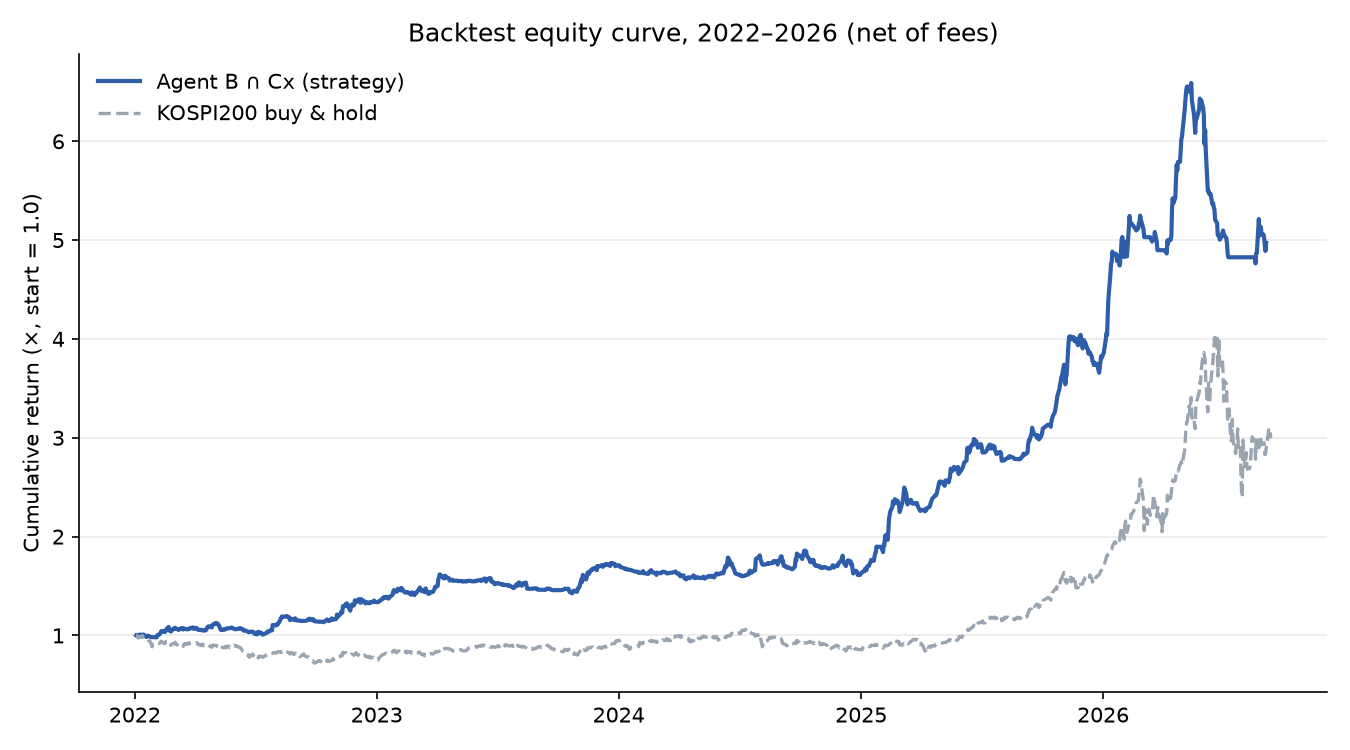
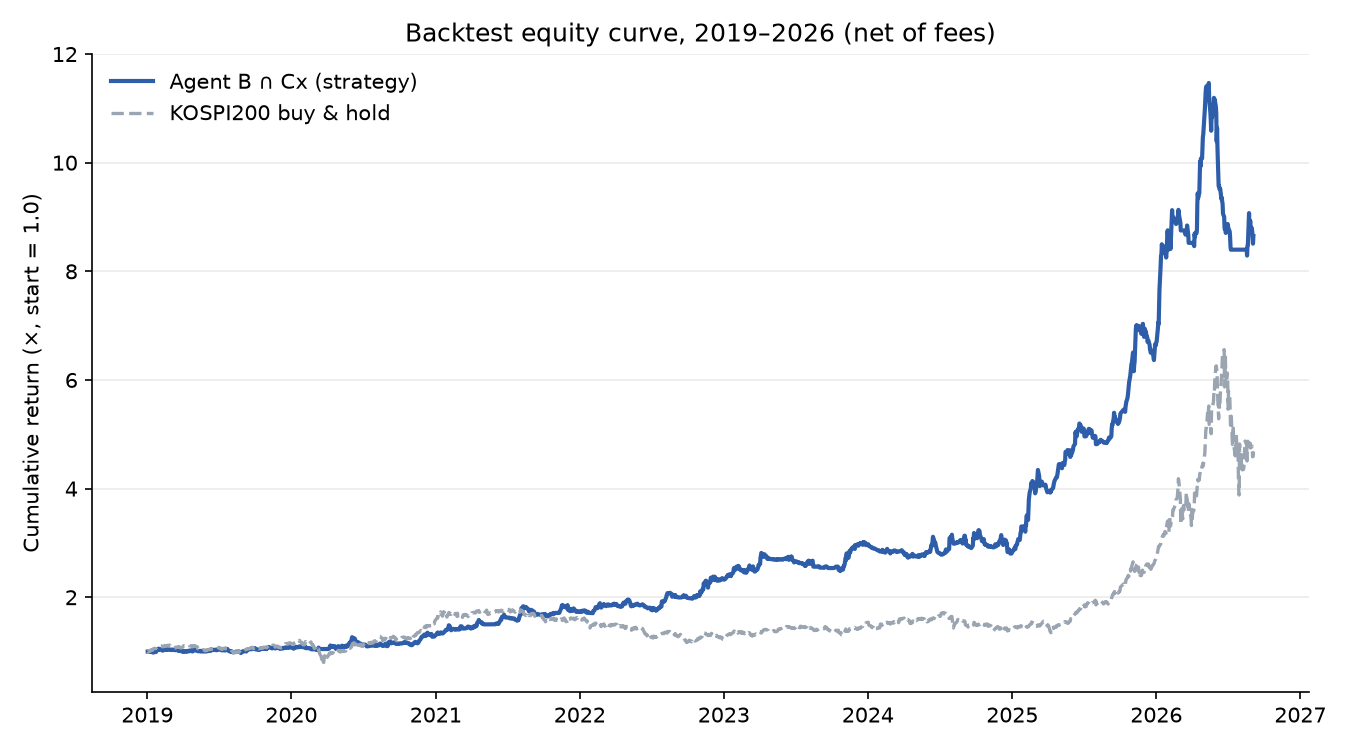
Add methodology writeup, diagnostics, tests, and pipeline diagram
Documents the point-in-time universe, order-aware labeling, transaction
cost modeling, and walk-forward validation used in the underlying
research project, with honest backtest results, additional diagnostics
(cash exposure, Sharpe, equal-weight universe benchmark, cost
sensitivity), a bugs-found log with real before/after numbers, a
Mermaid architecture diagram, and pytest coverage for the claims made
in src/. Numbers were cross-checked and corrected across several review
passes (year-boundary compounding, benchmark end-date alignment,
universe-average anchoring). Production trading parameters remain
excluded throughout.

diff --git a/tests/test_methodology.py b/tests/test_methodology.py
@@ -1,0 +1,100 @@
+"""
+Actual assertions for the claims made in README.md and BUGS.md — not just
+runnable print statements. Run with: pytest tests/
+"""
+from __future__ import annotations
+import sys
+from pathlib import Path
+
+import numpy as np
+import pandas as pd
+
+sys.path.insert(0, str(Path(__file__).resolve().parent.parent / "src"))
+
+from point_in_time_universe import PointInTimeUniverse, Snapshot
+from order_aware_labeling import label_order_blind, label_order_aware
+from transaction_costs import ROUND_TRIP_COST, buy_cost, sell_proceeds, net_return
+from walkforward_validation import annual_folds
+
+
+def test_pit_universe_uses_old_membership_before_effective_date():
+    universe = PointInTimeUniverse([
+        Snapshot(pd.Timestamp("2023-12-14"), frozenset({"A", "B", "C"})),
+        Snapshot(pd.Timestamp("2024-06-14"), frozenset({"A", "C", "D"})),
+    ])
+    # One day before the new snapshot takes effect: still the OLD membership.
+    assert universe.is_member("2024-06-13", "B") is True
+    assert universe.is_member("2024-06-13", "D") is False
+
+
+def test_pit_universe_switches_exactly_on_effective_date():
+    universe = PointInTimeUniverse([
+        Snapshot(pd.Timestamp("2023-12-14"), frozenset({"A", "B", "C"})),
+        Snapshot(pd.Timestamp("2024-06-14"), frozenset({"A", "C", "D"})),
+    ])
+    assert universe.is_member("2024-06-14", "B") is False
+    assert universe.is_member("2024-06-14", "D") is True
+
+
+def test_pit_universe_before_any_snapshot_is_empty_not_leaked_from_future():
+    universe = PointInTimeUniverse([Snapshot(pd.Timestamp("2024-06-14"), frozenset({"A"}))])
+    assert universe.members_at("2020-01-01") == frozenset()
+
+
+def test_order_blind_label_ignores_stop_loss_hit_first():
+    # Stop hit on the first bar; target only touched on a later bar. The
+    # order-blind label is wrong here by construction — that's the bug.
+    highs = np.array([100.5, 101.0, 101.5, 103.0])
+    lows = np.array([97.0, 100.0, 100.5, 101.0])
+    assert label_order_blind(highs, lows, take_profit=103.0, stop_loss=97.5) == 1
+
+
+def test_order_aware_label_resolves_the_same_case_correctly():
+    highs = np.array([100.5, 101.0, 101.5, 103.0])
+    lows = np.array([97.0, 100.0, 100.5, 101.0])
+    assert label_order_aware(highs, lows, take_profit=103.0, stop_loss=97.5) == 0
+
+
+def test_order_aware_same_bar_double_touch_resolves_to_stop_loss():
+    # A single bar that touches both levels is scored conservatively as a
+    # stop-loss, since we don't know the true intrabar order.
+    highs = np.array([105.0])
+    lows = np.array([95.0])
+    assert label_order_aware(highs, lows, take_profit=103.0, stop_loss=97.0) == 0
+
+
+def test_round_trip_cost_matches_documented_value():
+    assert abs(ROUND_TRIP_COST - 0.0041) < 1e-9
+
+
+def test_net_return_is_strictly_worse_than_gross_return():
+    entry, exit_ = 10_000, 10_050  # +0.5% gross
+    gross = exit_ / entry - 1
+    net = net_return(entry, exit_)
+    assert net < gross
+    assert abs(net - 0.00088) < 1e-4  # ~0.088% after ~0.41% round-trip cost
+
+
+def test_buy_cost_and_sell_proceeds_are_on_opposite_sides_of_price():
+    price = 10_000
+    assert buy_cost(price) > price
+    assert sell_proceeds(price) < price
+
+
+def test_walkforward_folds_never_train_on_the_test_year_or_later():
+    folds = annual_folds(data_start="2019-01-01", test_years=[2022, 2023, 2024], embargo_days=5)
+    for fold in folds:
+        assert pd.Timestamp(fold.train_end) < pd.Timestamp(fold.test_start)
+        assert pd.Timestamp(fold.test_start).year == fold.test_year
+
+
+def test_walkforward_folds_train_window_grows_each_year():
+    folds = annual_folds(data_start="2019-01-01", test_years=[2022, 2023, 2024])
+    ends = [pd.Timestamp(f.train_end) for f in folds]
+    assert ends[0] < ends[1] < ends[2]
+
+
+def test_walkforward_embargo_shrinks_the_training_window():
+    no_embargo = annual_folds(data_start="2019-01-01", test_years=[2022], embargo_days=0)[0]
+    with_embargo = annual_folds(data_start="2019-01-01", test_years=[2022], embargo_days=5)[0]
+    assert pd.Timestamp(with_embargo.train_end) < pd.Timestamp(no_embargo.train_end)

diff --git a/src/order_aware_labeling.py b/src/order_aware_labeling.py
@@ -15,9 +15,9 @@ easier to satisfy than "TP before SL." The fix is to walk forward through
 the path bar-by-bar and take whichever level is crossed first, with a
 conservative tie-break (stop-loss wins on a same-bar double-touch).
 
-We use this in the project's 5-minute-bar experiments below (see the
-project write-up) to explain a case where fixing this bug changed which
-label design looked "best."
+Fixing this in the underlying project changed which label design looked
+"best" under offline AUC — a design that looked strongest order-blind
+stopped looking strongest once evaluated order-aware.
 """
 from __future__ import annotations
 
@@ -26,7 +26,11 @@ import numpy as np
 
 def label_order_blind(highs: np.ndarray, lows: np.ndarray, take_profit: float, stop_loss: float) -> int:
     """1 if price ever reaches take_profit within the window, regardless of
-    whether stop_loss was crossed first. This is the biased version."""
+    whether stop_loss was crossed first. This is the biased version — `lows`
+    and `stop_loss` are accepted (and intentionally unused) only to keep the
+    same call signature as `label_order_aware`, so the two are a drop-in
+    swap for each other at call sites."""
+    del lows, stop_loss
     return int((highs >= take_profit).any())
 
 

diff --git a/README.md b/README.md
@@ -1,51 +1,106 @@
-# NoLookahead
+# Korean Large-Cap Equities Quant Research
 
-**Korean equity quant research — fundamental + ML signal blending, walk-forward validated, point-in-time correct.**
+**Walk-forward backtesting with a point-in-time universe and a risk-gated signal pipeline.**
 
-This repo documents a long-running solo research project building a systematic long-only strategy for KOSPI200 stocks. It is **not** a copy of the live trading system — the exact gating thresholds, position sizing, and risk-management parameters used in production are intentionally left out. What's here is the methodology, the validation approach, the honest results, and — probably the most useful part for anyone reading this — the mistakes that were found and fixed along the way.
+This repo is a write-up of the methodology and validation discipline behind a long-running solo research project on large-cap Korean equities — not a pitch for the returns below. (Not literally "KOSPI200 stocks," either — see [Approach](#approach).) It is **not** a copy of the live trading system — the exact gating thresholds, position sizing, and risk-management parameters used in production are intentionally left out. What's actually here, and actually checkable: the point-in-time and cost-accounting discipline in [`src/`](src/), tests that pin down the claims in [`tests/`](tests/), and the mistakes that were found and fixed along the way, in [BUGS.md](BUGS.md) with real before/after numbers. The performance table below is not checkable from this repo — see the note under it before reading too much into it.
 
 > ⚠ **Not investment advice.** This is a personal research project shared for educational purposes. Past backtest performance does not predict future results, and nothing here should be read as a recommendation to buy or sell any security.
 
-## TL;DR
+## Results (reference only — see caveat)
 
 | | Strategy | KOSPI200 buy & hold |
 |---|---|---|
-| CAGR (2022–2026 YTD) | **40.99%** | 26.36% |
+| CAGR (2019–2026 YTD) | **32.48%** | 22.30% |
 | Max drawdown | **-27.7%** | -40.8% |
-| CAGR / \|MDD\| | **1.48** | 0.65 |
-| Cumulative | **4.97×** | 2.99× |
+| CAGR / \|MDD\| | **1.17** | 0.55 |
+| Cumulative | **8.65×** | 4.68× |
 
-Net of realistic transaction costs (commission + Korean securities transaction tax + slippage, ~0.41% round-trip). Backtest, not live-verified — see [Limitations](#limitations).
+> **These numbers can't be independently verified from this repo.** The code here ([`src/`](src/)) illustrates the techniques used, not the full pipeline — the actual backtest depends on licensed/collected Korean market data that isn't (and can't be) included. Read this table as "what came out of a walk-forward, cost-aware backtest for this approach," not as something you can reproduce or take on faith. The methodology sections below are the part you actually *can* evaluate.
+
+Net of realistic transaction costs (commission + Korean securities transaction tax + slippage, ~0.41% round-trip). "KOSPI200 buy & hold" is the KODEX 200 ETF (069500) price series — a price return, not a total return with dividends reinvested, which flatters the strategy comparison somewhat. See also [Limitations](#limitations) — in particular, the most recent fold (2026) underperforms buy-and-hold by a wide margin, and the risk-management parameters have a meta-look-ahead issue.
 
 ![Equity curve](results/equity_curve.png)
+
+### Walk-forward results by year
+
+Each year below is an out-of-sample fold: for the model that year is tested on, all training data is strictly earlier (annual walk-forward, no k-fold shuffling — see [`src/walkforward_validation.py`](src/walkforward_validation.py)). Shown per-year rather than only as one aggregate number, since an eight-year average can hide a lot of variance:
+
+| Year | Strategy | KOSPI200 | Excess |
+|---|---|---|---|
+| 2019 | +7.8% | +15.8% | -8.0pp |
+| 2020 | +20.5% | +35.6% | -15.1pp |
+| 2021 | +33.2% | +3.0% | +30.2pp |
+| 2022 | +34.8% | -24.2% | +59.0pp |
+| 2023 | +27.5% | +24.9% | +2.6pp |
+| 2024 | -5.7% | -9.4% | +3.7pp |
+| 2025 | +136.3% | +94.2% | +42.1pp |
+| 2026 (YTD, through Sep 4) | +30.5% | +73.8% | -43.3pp |
+
+(Compounding these year-by-year figures reproduces the 8.65× total above exactly — each year's return is computed year-end to year-end, not first-trading-day to last-trading-day, so the boundary days aren't silently dropped.)
+
+Three years (2019, 2020, 2026) underperform buy-and-hold outright, and 2026 underperforms by a wide margin — a strong KOSPI rally this strategy's regime/sector-cap risk controls didn't fully capture. Included deliberately rather than cut off at a more flattering point.
+
+### Additional diagnostics
+
+The headline CAGR comparison above isn't apples-to-apples on its own — buy-and-hold is always 100% invested, and a lower-drawdown strategy that's just sitting in cash more often isn't actually more skillful. These numbers are here to close that gap:
+
+| | Value |
+|---|---|
+| Average cash allocation | 50.4% (i.e. ~49.6% average market exposure) |
+| Annualized Sharpe ratio | 1.59 |
+| Total trades (2019–2026) | 373 |
+| Win rate | 44.0% |
+| Average hold time | 12.4 trading days |
+| Equal-weight universe benchmark (avg. return of all PIT KOSPI200 members, 2019–2026) | 2.04× cumulative |
+| Cost sensitivity: CAGR at 2× assumed slippage (0.41% → 0.61% round-trip) | 29.90% (vs. 32.48% base) |
+
+A few of these are worth reading correctly rather than at face value:
+
+- **~50% average exposure while still beating a fully-invested benchmark is the more interesting number than the CAGR itself** — the strategy achieved its return profile with roughly half its capital sitting in cash on an average day, not by being in the market more aggressively than buy-and-hold.
+- **44% win rate is not a red flag on its own.** The exit rules are asymmetric by design — the profit target is set further from entry than the stop-loss — so more small losses than wins is expected. What matters is the per-trade expectancy (implied by the CAGR above), not the win rate in isolation.
+- **The equal-weight universe comparison is the more honest benchmark than the cap-weighted KOSPI200 ETF.** A cap-weighted index can be dominated by a handful of mega-caps; an approach that only beats the cap-weighted index but not the average stock in its own universe would be a much weaker result. Here the gap is *larger* against the equal-weight benchmark (8.65× vs. 2.04×) than against the cap-weighted one (8.65× vs. 4.68×).
+- **Doubling the slippage assumption costs about 2.6 percentage points of CAGR, not the whole edge.** That's a reasonable sanity check that the result isn't a knife-edge function of the exact cost assumptions in [`src/transaction_costs.py`](src/transaction_costs.py) — though it's a stress test of one assumption, not proof of robustness to all of them.
+- Strategy capacity (how much capital this scales to before market impact erodes the edge) isn't estimated here — it would need order-book/liquidity data this project doesn't have, so no number is given rather than a guessed one.
 
 ## Approach
 
 Two independent signal sources, combined by intersection rather than by blending scores into one number:
 
-- **Agent B** — a fundamentals/market-cap-based factor model that ranks the investable universe and produces a daily candidate pool (with a per-sector cap, so the pool can't collapse into one hot sector).
-- **Agent Cx** — a technical/price-action model (gradient-boosted + a CNN-LSTM variant, blended) that scores the same universe on near-term momentum characteristics, evaluated against the **actual, point-in-time** KOSPI200 membership.
-- A stock only becomes a candidate when it clears **both** filters on the same day. Neither filter alone performs as well — this was tested directly, not assumed.
+```mermaid
+flowchart TD
+    subgraph AgentB["Agent B — fundamentals"]
+        B1["Market-cap-approximated<br/>large-cap universe"] --> B2["Factor model ranking"]
+        B2 --> B3["Daily candidate pool<br/>(per-sector cap applied)"]
+    end
+
+    subgraph AgentCx["Agent Cx — price action / ML"]
+        C1["Official KOSPI200<br/>point-in-time membership"] --> C2["Gradient-boosted model"]
+        C1 --> C3["CNN-LSTM model"]
+        C2 --> C4["Blended cross-sectional<br/>percentile score"]
+        C3 --> C4
+    end
+
+    B3 --> GATE{"Passes both<br/>on the same day?"}
+    C4 --> GATE
+    GATE -->|no| SKIP["Not traded"]
+    GATE -->|yes| ENTRY["Entry rules<br/>gap filter · volatility-based stop · profit target"]
+    ENTRY --> RISK["Risk gates<br/>per-sector cap · drawdown regime filter · re-entry cooldown"]
+    RISK --> POS["Position<br/>(timer / stop / target exit)"]
+```
+
+- **Agent B** — a fundamentals/market-cap-based factor model that ranks a self-computed large-cap universe (a market-cap approximation, not the official index) and produces a daily candidate pool (with a per-sector cap, so the pool can't collapse into one hot sector).
+- **Agent Cx** — a technical/price-action model (gradient-boosted + a CNN-LSTM variant, blended) that scores stocks within the **actual, point-in-time official KOSPI200 membership**.
+- A stock only becomes a candidate when it clears **both** filters on the same day — i.e. when *both* a market-cap-based approximation and the official index agree it belongs in the large-cap set. This is a deliberate design choice, not an oversight: the two universes disagree on roughly 15–20% of names at any given time, and requiring agreement between two independently-derived definitions turned out to filter better than either one alone (tested directly, not assumed). The tradable universe is therefore this intersection, not "KOSPI200" in the strict sense.
 
 Entries, stop-losses (volatility-based), and profit targets follow a fixed rule set; position risk is managed with per-sector caps and a drawdown-triggered regime filter that blocks new entries during KOSPI-wide selloffs. The exact numeric thresholds for all of this are withheld — the *structure* is what's documented here.
 
 ## Methodology / what makes this credible (or not)
 
-- **Point-in-time universe.** KOSPI200 rebalances semi-annually with a real effective date (the trading day after the index provider's announcement, not the 1st of the month). A backtest using "current members" applied retroactively is a look-ahead bug — see [`src/point_in_time_universe.py`](src/point_in_time_universe.py).
+- **Point-in-time universe.** KOSPI200 rebalances semi-annually with a real effective date (the trading day after the index provider's announcement, not the 1st of the month) — this matters for the Agent Cx side of the filter above. A backtest using "current members" applied retroactively is a look-ahead bug — see [`src/point_in_time_universe.py`](src/point_in_time_universe.py).
 - **Order-aware labeling.** Any label built from "did price reach the target within N bars," checked without regard to whether the stop-loss was hit *first*, silently inflates label quality. See [`src/order_aware_labeling.py`](src/order_aware_labeling.py) for the concrete before/after.
-- **Transaction costs modeled from day one on every new idea.** Commission on both legs, tax on the sell leg, slippage — see [`src/transaction_costs.py`](src/transaction_costs.py). Several promising-looking ideas below failed only after this was added.
+- **Transaction costs modeled from day one on every new idea.** Commission on both legs, tax on the sell leg, slippage — see [`src/transaction_costs.py`](src/transaction_costs.py). More than one promising-looking signal turned out to be smaller than the round-trip cost once this was added honestly.
 - **Annual walk-forward folds with an embargo**, not k-fold cross-validation — see [`src/walkforward_validation.py`](src/walkforward_validation.py). Each fold trains only on strictly-past data.
 - **Relative, not absolute, entry thresholds.** Every time a fixed score cutoff was replaced with a same-day cross-sectional percentile cutoff, results improved and a look-ahead disappeared at the same time (the fixed cutoff had implicitly been tuned by looking at the whole evaluation period's score distribution).
-
-## What didn't work
-
-Documented here because negative results are still results, and because "we tried X and it failed after fixing the accounting" is a more useful signal than a cherry-picked win:
-
-- **Intraday (same-day) trading on 5-minute bars**, across four different label designs (order-aware ATR-relative, fixed-percentage, 3× ATR, and a 5-minute-vs-10-minute bar-size comparison): every design's average per-trade edge came out to roughly 1/10–1/15 of the realistic 0.41% round-trip cost. Net of fees, every configuration was catastrophically unprofitable, regardless of how the entry threshold was tuned.
-- **Multi-day holds (3–5 trading days) with 5-minute-bar features**, ranked cross-sectionally with a pairwise ranking loss: this did produce a real, walk-forward-validated signal (Spearman IC ≈ 0.03–0.04 across 5 test years, positive in all of them) — but the average edge was too small to clear transaction costs, and stacking it as an entry-timing filter on top of the main strategy produced no improvement.
-- **Intraday direction prediction on leveraged KOSPI200 ETFs** (2× long/inverse): no exploitable signal at 5-minute or 10-minute bar resolution (IC ≈ 0, hit rate ≈ 50%) — bar size was not the bottleneck; the underlying few-hours-ahead index move just isn't predictable from short-window technical features at this granularity.
-
-The common thread: extreme model confidence (the single highest-scored signal of the day, or the tightest percentile cutoff) consistently performed *worse*, not better — a pattern that shows up independently in several of the above.
 
 ## Repo structure
 
@@ -54,19 +109,43 @@ src/            Standalone, runnable illustrations of the methodology pieces abo
                 (point-in-time universe, order-aware labeling, transaction costs,
                 walk-forward folds) — simplified from the production code, no
                 proprietary parameters.
+tests/          pytest tests that pin down the actual claims made by src/ and
+                this README (not just print-and-eyeball demos).
 results/        Equity curve chart used above.
+BUGS.md         Concrete before/after numbers for mistakes found and fixed.
 ```
 
 There is no `data/` directory here — the underlying price/fundamentals data is either commercially licensed or collected from a brokerage API under terms that don't permit redistribution.
 
+## How to run
+
+```bash
+pip install -r requirements-dev.txt
+
+python src/point_in_time_universe.py
+python src/order_aware_labeling.py
+python src/transaction_costs.py
+python src/walkforward_validation.py
+
+pytest tests/
+```
+
+Requires Python 3.10+. Each `src/` file is self-contained and runs standalone (no shared setup, no external data) — `requirements.txt` alone (pandas, numpy) is enough to run them; `requirements-dev.txt` adds pytest for the test suite.
+
 ## Limitations
 
 - Backtest results, not a live track record. The final risk-management parameters (regime filter threshold, re-entry cooldown) were arrived at after having already seen how a 2026 drawdown period played out — a form of meta-look-ahead that likely makes the backtest somewhat optimistic. Live performance should be expected to be more modest.
-- Universe and cost assumptions are Korea-specific (KOSPI200, Korean transaction tax); nothing here is a claim that the approach generalizes to other markets as-is.
+- Universe and cost assumptions are Korea-specific (a KOSPI200-adjacent large-cap universe, Korean transaction tax); nothing here is a claim that the approach generalizes to other markets as-is.
 
 ## Tech stack
 
-Python, PyTorch (CNN-LSTM), LightGBM/XGBoost, pandas — walk-forward training and backtesting built from scratch rather than an off-the-shelf backtesting library, to keep full control over the point-in-time and cost-accounting details above.
+**Modeling & backtesting:** Python, PyTorch (CNN-LSTM), XGBoost, pandas — walk-forward training and backtesting built from scratch rather than an off-the-shelf backtesting library, to keep full control over the point-in-time and cost-accounting details above.
+
+**Data pipeline:** the underlying data isn't redistributable (see above), but the collection side is its own piece of engineering, built on public sources:
+
+- **Financial statements** — Open DART API (Korea's regulatory filing system), collected per-company and cached locally, with the reporting-date handling that makes a fundamentals factor point-in-time rather than retroactive.
+- **Index membership** — `pykrx`, pulling KRX's own published KOSPI200 constituent files per rebalance date. This is what lets the point-in-time universe in [`src/point_in_time_universe.py`](src/point_in_time_universe.py) reflect actual historical membership rather than a reconstruction. Worth knowing before trusting a reconstructed one: measured against the official files at the same date, a market-cap-based approximation of "the top 200" differed on ~17% of names. That's why the Agent Cx side switched to the official source — Agent B keeps the approximation deliberately, and the disagreement between the two is the intersection filter described above.
+- **Daily prices** — FinanceDataReader, cached to local Parquet.
 
 ## License
 

diff --git a/BUGS.md b/BUGS.md
@@ -1,0 +1,63 @@
+# Bugs found and fixed
+
+Concrete before/after numbers for mistakes that were caught during this project, rather than a vague claim that "mistakes were made." Each one changed a real result, not just a code comment.
+
+*Items 1–4 are from an experimental intraday signal project, separate from the main strategy behind the [results](README.md) above — noted per item below. Item 5 is about this repo itself.*
+
+## 1. Order-blind labels looked better than order-aware ones — and were wrong
+
+*(experimental intraday signal, not the main strategy)*
+
+An early signal design labeled a trade "1" if price ever reached a take-profit level within a future window, without checking whether the stop-loss was hit *first*. This is easier to satisfy than "target before stop," so it silently inflates label quality for any setup where the stop is wide relative to the target.
+
+- **Order-blind label, offline AUC: 0.6544**
+- **Order-aware label (same underlying signal, re-labeled by walking the path forward and resolving whichever level is crossed first): AUC 0.5707**
+
+The order-blind number looked like the better model. It wasn't — it was measuring a different, easier, and unrealistic question. See [`src/order_aware_labeling.py`](src/order_aware_labeling.py).
+
+## 2. A signal was used before it was actually available
+
+*(experimental intraday signal, not the main strategy)*
+
+A secondary signal, dated by its "as of" date, was in fact computed from a window that already included that date's own closing information. Using it to make a decision *on* that date was look-ahead — the same mistake as trading on a piece of news before it's been published.
+
+- Correlation between the signal (as dated) and **that same date's** return: ≈ 0.25
+- Correlation between the signal and the **next** date's return — i.e., its actual predictive value once you could realistically have acted on it: ≈ 0.00
+- After lagging the signal by one period before using it: a walk-forward validation Spearman IC that had read **≈ +0.09 to +0.10** (two separate runs of the leaky version gave +0.099 and +0.093) came down to a more honest **+0.039**.
+
+A >2x inflation in an IC estimate, from a bug that's invisible unless you specifically check what date range a "point-in-time" signal actually covers.
+
+## 3. Releasing capital too early in a concurrent-position simulation
+
+*(experimental intraday signal, not the main strategy)*
+
+A portfolio backtest released cash from a closed position and made it available for the next trade immediately, even on days when multiple positions were still simultaneously open and that capital was, in reality, still committed.
+
+- Naive (capital released instantly): **CAGR 100.45%, efficiency (CAGR / |MDD|) 4.82**
+- Correct (capital tracked per-position, released only at actual exit time, new trades skipped if insufficient *available* — not merely committed — cash): **CAGR 33.92%, efficiency 5.85**
+
+The "wrong" version wasn't just optimistic on CAGR — it was optimistic on CAGR *and* still ended up with worse risk-adjusted efficiency, which is the version of this bug that's easiest to miss because both headline numbers look plausible on their own.
+
+## 4. No transaction costs modeled at all, on an otherwise-complete pipeline
+
+*(experimental intraday signal, not the main strategy)*
+
+An entire experimental pipeline — feature engineering, labeling, model training, backtest simulation — had zero commission, tax, or slippage modeling anywhere in it, unlike the project's main system (see [`src/transaction_costs.py`](src/transaction_costs.py)).
+
+- Best configuration, fee-free (gross): profitable.
+- Same configuration, realistic ~0.41% round-trip cost applied: **net CAGR in the -50% to -70% range**, across every variant tried.
+
+Nothing else in the pipeline was wrong — the model, the labels, the walk-forward split were all fine. The absence of a single cost model was enough to flip the entire conclusion.
+
+## 5. (Meta) This README's own yearly-returns table didn't match its own headline number
+
+*(about this repo's own numbers — i.e. the main strategy's results table above, not the experimental signal in items 1–4)*
+
+While writing this repo, the year-by-year table below the [results summary](README.md) was computed as "first trading day of year → last trading day of year." Compounding those numbers gave a different total than the headline cumulative return computed directly from the full equity curve:
+
+- Product of the (wrong) per-year figures: **8.32×**
+- Actual total, computed directly: **8.65×**
+
+The bug: each year's figure was computed independently, so the single trading day between "last day of year N" and "first day of year N+1" was silently dropped from *both* years' reported returns, at every year boundary. The fix is to compute annual returns from consecutive year-*end* marks (previous year-end → this year-end), anchoring only the very first year to the actual starting capital — see the corrected computation reflected in the table in [README.md](README.md).
+
+Kept in here on purpose: it's a mistake made in the course of writing the "we're careful about backtest arithmetic" repo, caught by having someone else's eyes independently check the numbers rather than by any special diligence on the author's part. That's the actual lesson.
